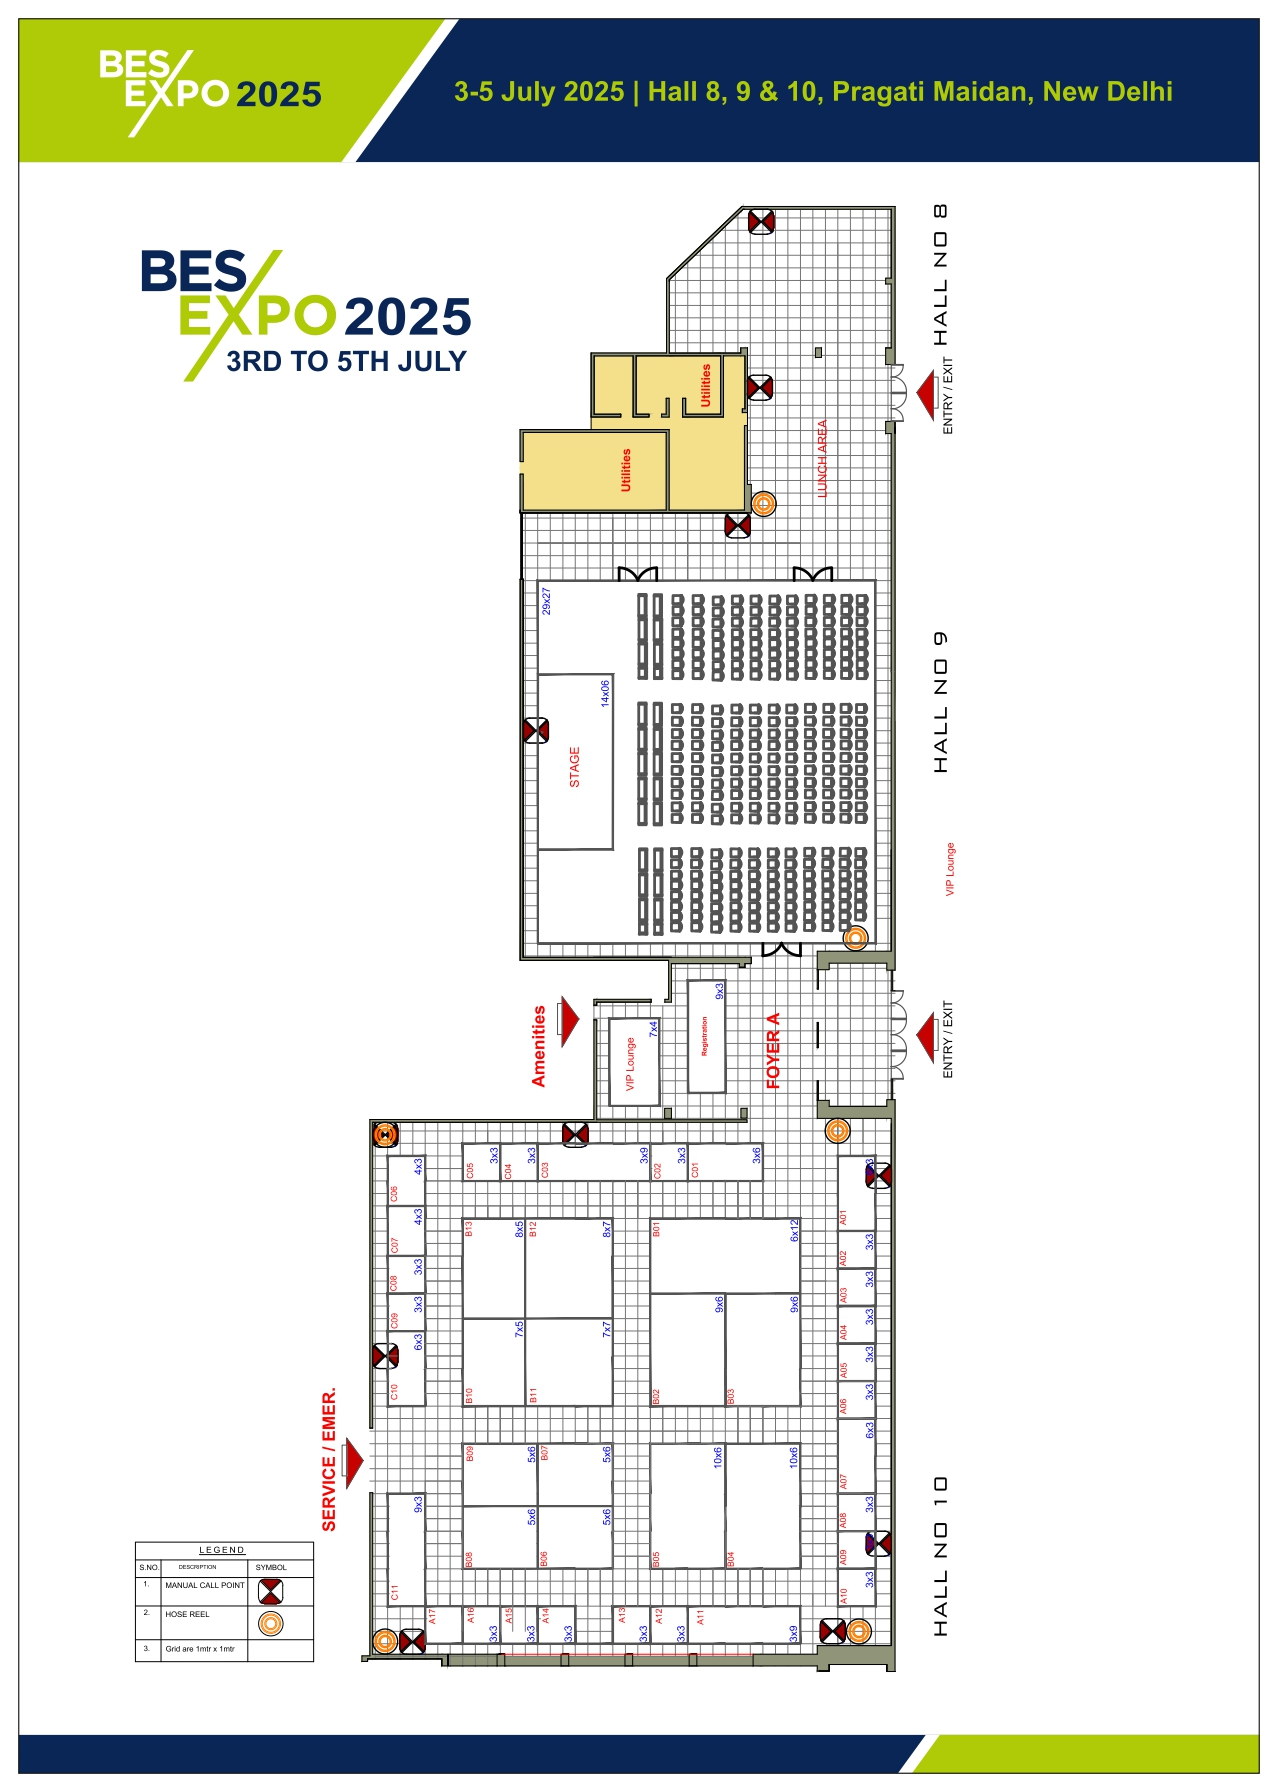
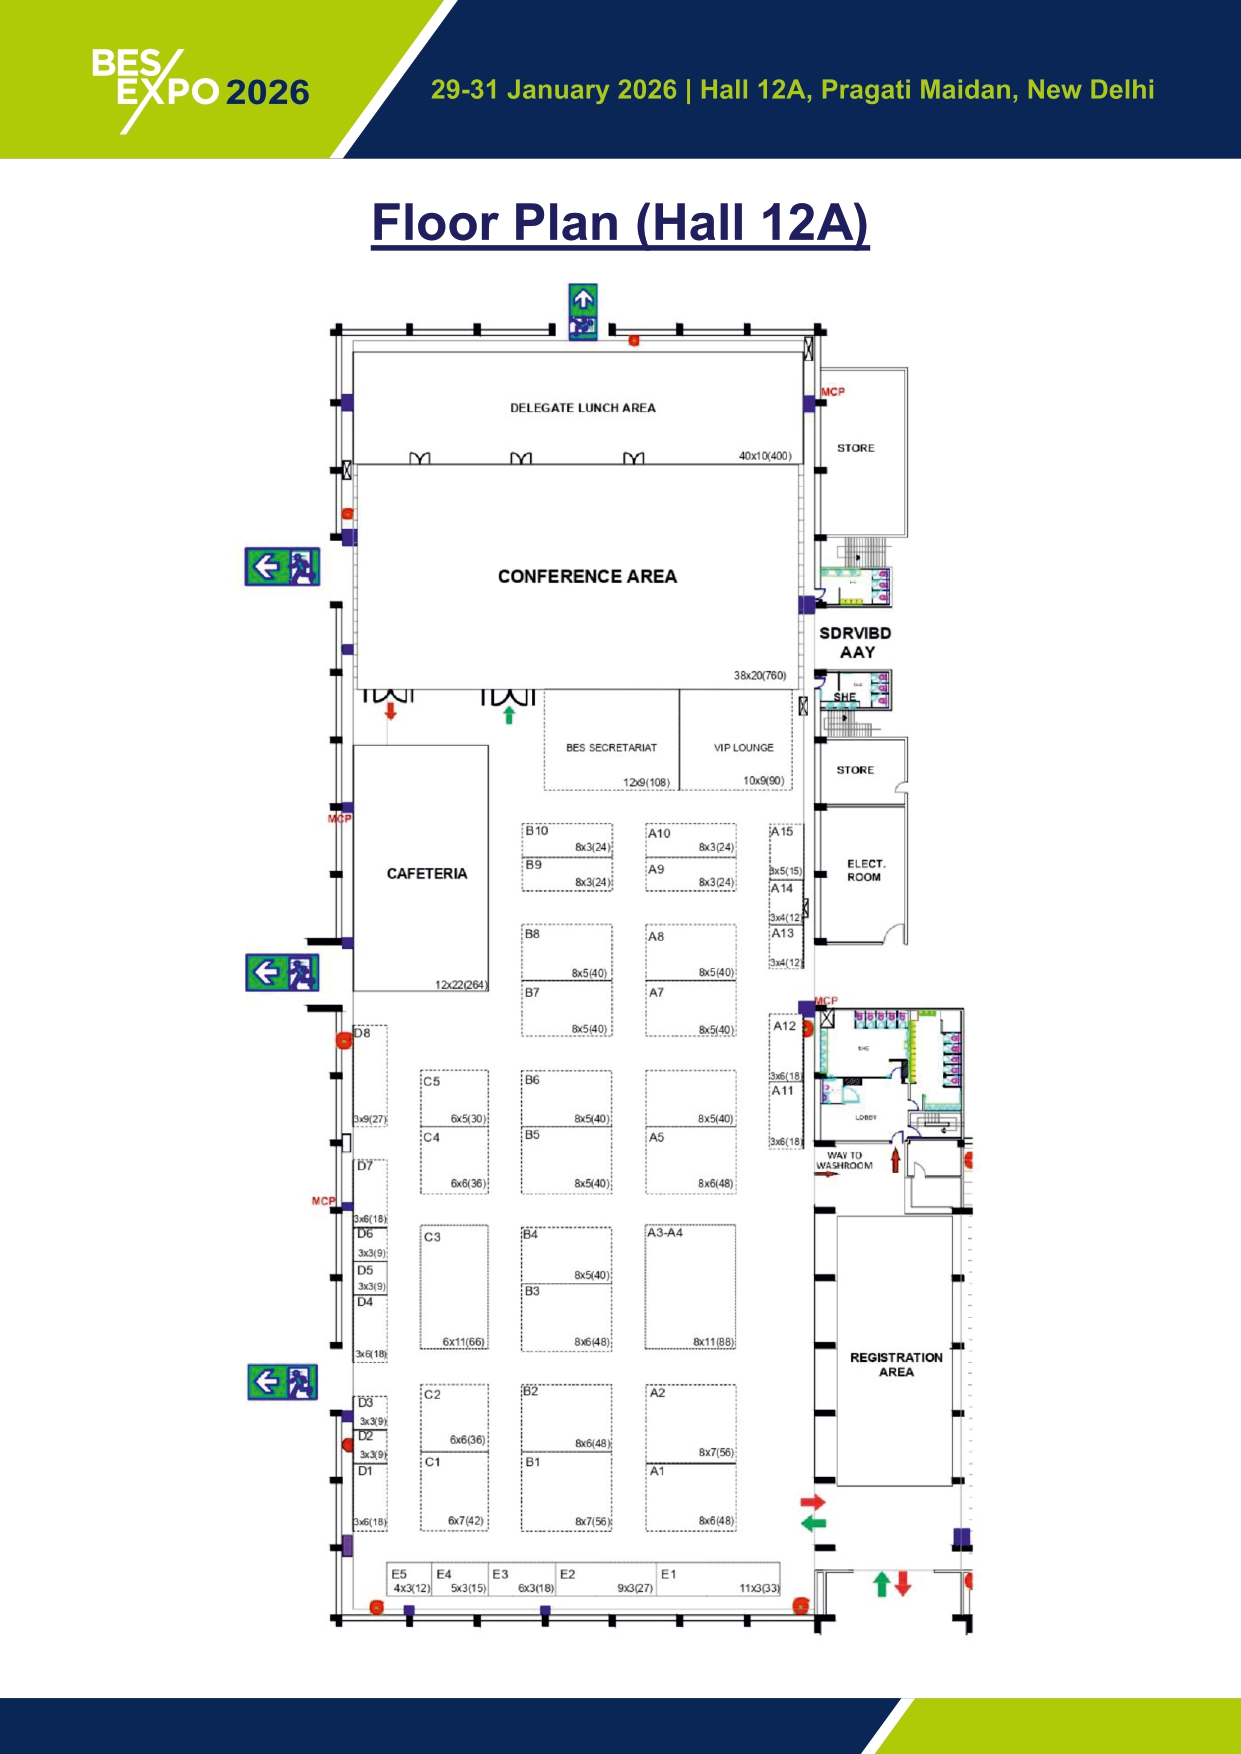
change

Changed region(s): [[0.0919, 0.0924, 0.7961, 0.9544], [0.0, 0.0, 1.0, 1.0], [0.2756, 0.0616, 0.3062, 0.0924]]

diff --git a/app/event_conference/bes_expo/conference/conference_schedule/page.tsx b/app/event_conference/bes_expo/conference/conference_schedule/page.tsx
@@ -9,11 +9,11 @@ export default function page() {
         <p>
           A 3–day conference on the theme{" "}
           <strong>
-            Transforming the Media Landscape through AI:Create, Collaborate,
+            Broadcast Intelligence Innovation: Make in India for the World
             Monetize
           </strong>{" "}
-          will be held from <strong>3-5 July 2025</strong> in{" "}
-          <strong> Hall No 8,9 & 10 at Pragati Maidan, New Delhi </strong>{" "}
+          will be held from <strong>29-31 January 2026</strong> in{" "}
+          <strong> Hall 12A at Pragati Maidan, New Delhi </strong>{" "}
           concurrently with the exhibition. Delegates attending the conference
           invariably visit the exhibition. Besides keynote addresses, the
           conference will have presentations on current and future broadcast

diff --git a/app/event_conference/bes_expo/exibition/participation_fee/FeeDetails.tsx b/app/event_conference/bes_expo/exibition/participation_fee/FeeDetails.tsx
@@ -51,8 +51,8 @@ export default function FeeDetails() {
                   <StyledTableCell className="font-bold text-1xl">
                     Indian Exhibitor (Rs Per sqm)
                   </StyledTableCell>
-                  <StyledTableCell>13000/-</StyledTableCell>
-                  <StyledTableCell>12000/-</StyledTableCell>
+                  <StyledTableCell>14500/-</StyledTableCell>
+                  <StyledTableCell>13500/-</StyledTableCell>
                 </TableRow>
               </TableBody>
             </Table>

diff --git a/app/event_conference/bes_expo/exibition/floor_plan/page.tsx b/app/event_conference/bes_expo/exibition/floor_plan/page.tsx
@@ -10,7 +10,7 @@ export default function page() {
 
       <div>
         <p>
-          <strong>BES EXPO 2025  </strong>is being organized at Pragati Maidan,
+          <strong>BES EXPO 2026  </strong>is being organized at Pragati Maidan,
           New Delhi.
         </p>
       </div>